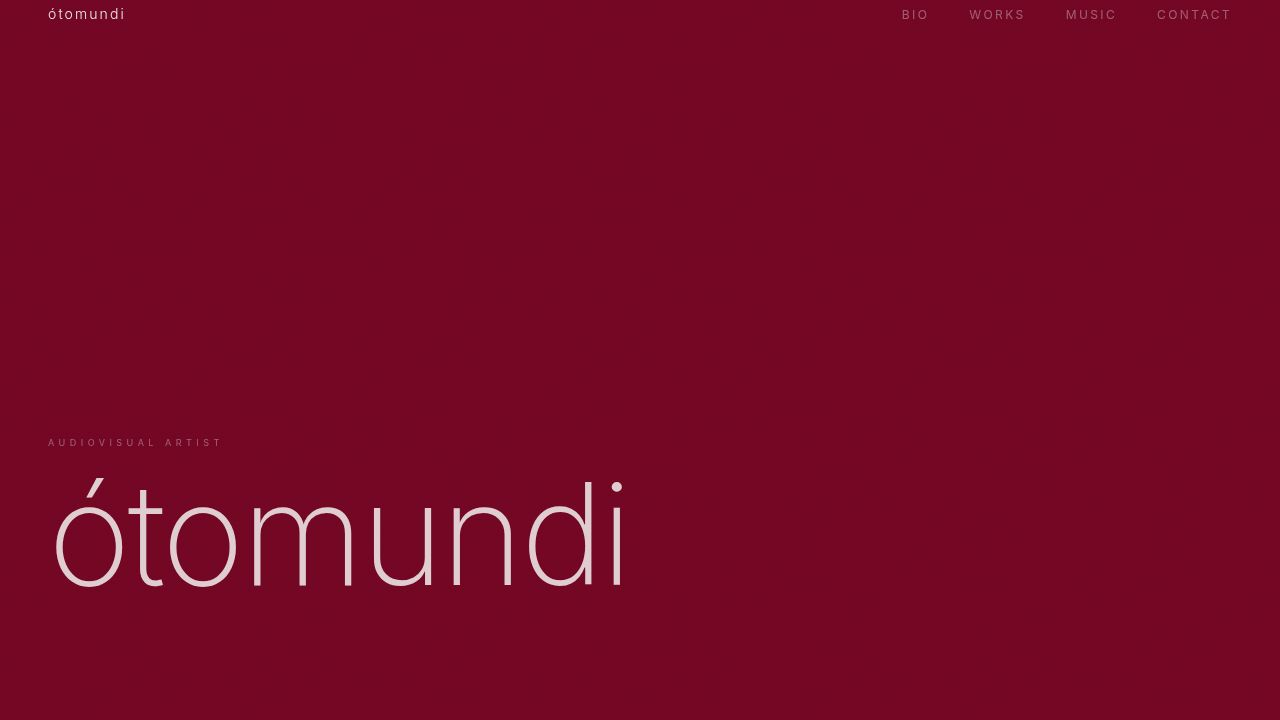
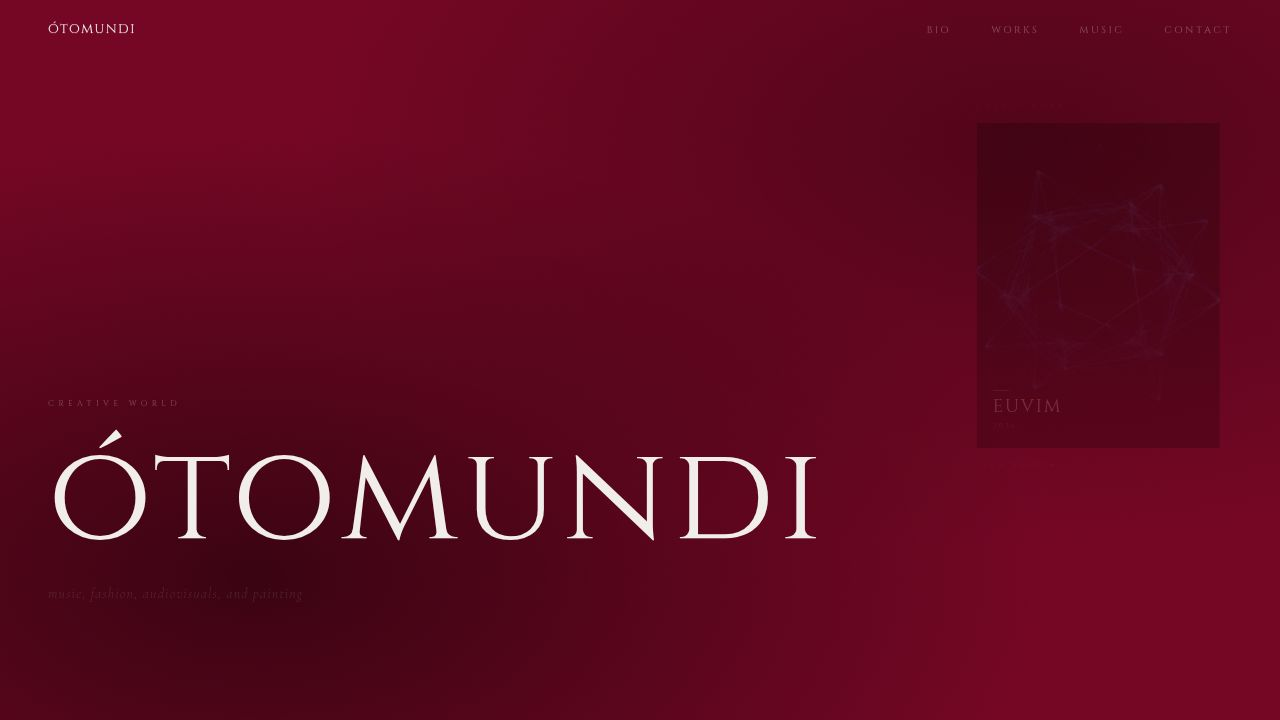
Add a call to action for the latest artwork and a pulsing animation
Add a "Latest Work" call to action to the landing page and a pulsing red vignette effect to work detail images.

Replit-Commit-Author: Agent
Replit-Commit-Session-Id: 4dd4f885-91ed-40de-b253-7b7fb1446668
Replit-Commit-Checkpoint-Type: full_checkpoint
Replit-Commit-Event-Id: 82ff4712-28cc-4bcb-9798-424f6fc0920f
Replit-Commit-Screenshot-Url: https://storage.googleapis.com/screenshot-production-us-central1/a4cadb7b-c77c-4009-9e41-e14e15110c0b/4dd4f885-91ed-40de-b253-7b7fb1446668/TG7sOk2
Replit-Helium-Checkpoint-Created: true

diff --git a/artifacts/portfolio/src/pages/Landing.tsx b/artifacts/portfolio/src/pages/Landing.tsx
@@ -1,7 +1,10 @@
 import { motion } from "framer-motion";
+import { Link } from "wouter";
 import { SiInstagram, SiYoutube, SiSoundcloud, SiSpotify } from "react-icons/si";
+import { works } from "@/data/works";
 
 const GOTHIC = "'Cinzel', Georgia, serif";
+const CORMORANT = "'Cormorant Garamond', Georgia, serif";
 
 const socialLinks = [
   { icon: SiInstagram, href: "https://instagram.com/otomundi", label: "Instagram" },
@@ -9,6 +12,8 @@ const socialLinks = [
   { icon: SiSoundcloud, href: "https://soundcloud.com/otomundi", label: "SoundCloud" },
   { icon: SiSpotify, href: "https://open.spotify.com/artist/1Pr9r0RYuRgh971UdzxSpe", label: "Spotify" },
 ];
+
+const latestWork = works[0];
 
 export default function Landing() {
   return (
@@ -23,9 +28,105 @@ export default function Landing() {
         className="absolute inset-0 pointer-events-none"
         style={{
           background:
-            "radial-gradient(ellipse at 20% 80%, rgba(0,0,0,0.45) 0%, transparent 55%), radial-gradient(ellipse at 80% 20%, rgba(0,0,0,0.25) 0%, transparent 50%)",
+            "radial-gradient(ellipse at 20% 80%, rgba(0,0,0,0.50) 0%, transparent 55%), radial-gradient(ellipse at 80% 20%, rgba(0,0,0,0.30) 0%, transparent 50%)",
         }}
       />
+
+      {/* Latest work — floating right panel, desktop only */}
+      <motion.div
+        className="absolute hidden md:block"
+        style={{ right: "6%", top: "14%", width: "clamp(180px, 19vw, 300px)", zIndex: 20 }}
+        initial={{ opacity: 0, x: 16 }}
+        animate={{ opacity: 1, x: 0 }}
+        transition={{ delay: 0.5, duration: 1.1, ease: "easeOut" }}
+        data-testid="latest-work-cta-desktop"
+      >
+        <Link href={`/works/${latestWork.id}`}>
+          <div className="group cursor-crosshair">
+            <p
+              className="mb-3"
+              style={{
+                fontFamily: GOTHIC,
+                fontSize: "7px",
+                letterSpacing: "0.55em",
+                textTransform: "uppercase",
+                color: "rgba(245,244,242,0.22)",
+                fontWeight: 400,
+              }}
+            >
+              Latest Work
+            </p>
+
+            <div className="relative overflow-hidden" style={{ aspectRatio: "3/4" }}>
+              <img
+                src={latestWork.image}
+                alt={latestWork.title}
+                className="w-full h-full object-cover transition-transform duration-700 group-hover:scale-105"
+                style={{ filter: "brightness(0.50) contrast(1.15) saturate(0.60)" }}
+                data-testid="img-latest-work"
+              />
+              <div
+                className="absolute inset-0"
+                style={{
+                  background:
+                    "linear-gradient(to top, rgba(10,2,4,0.85) 0%, transparent 50%), linear-gradient(to bottom, rgba(10,2,4,0.3) 0%, transparent 30%)",
+                }}
+              />
+              {/* Red bleed on hover */}
+              <div
+                className="absolute inset-0 opacity-0 group-hover:opacity-100 transition-opacity duration-500"
+                style={{ background: "rgba(115,6,35,0.22)" }}
+              />
+              <div className="absolute bottom-0 left-0 right-0 p-4">
+                <div
+                  className="mb-2 transition-all duration-500 group-hover:w-8"
+                  style={{ width: "16px", height: "1px", background: "rgba(245,244,242,0.30)" }}
+                />
+                <p
+                  style={{
+                    fontFamily: GOTHIC,
+                    fontSize: "clamp(0.9rem, 1.4vw, 1.3rem)",
+                    letterSpacing: "0.1em",
+                    textTransform: "uppercase",
+                    color: "rgba(245,244,242,0.82)",
+                    fontWeight: 400,
+                    lineHeight: 1,
+                  }}
+                >
+                  {latestWork.title}
+                </p>
+                <p
+                  className="mt-1"
+                  style={{
+                    fontFamily: GOTHIC,
+                    fontSize: "7px",
+                    letterSpacing: "0.3em",
+                    textTransform: "uppercase",
+                    color: "rgba(245,244,242,0.32)",
+                    fontWeight: 400,
+                  }}
+                >
+                  {latestWork.year}
+                </p>
+              </div>
+            </div>
+
+            <p
+              className="mt-3"
+              style={{
+                fontFamily: GOTHIC,
+                fontSize: "7px",
+                letterSpacing: "0.4em",
+                textTransform: "uppercase",
+                color: "rgba(245,244,242,0.20)",
+                fontWeight: 400,
+              }}
+            >
+              View work →
+            </p>
+          </div>
+        </Link>
+      </motion.div>
 
       <div className="relative z-10 flex flex-col flex-1" style={{ minHeight: "100svh" }}>
         <div className="flex-1 flex flex-col items-start justify-end px-6 md:px-12 pb-10 md:pb-14">
@@ -66,7 +167,7 @@ export default function Landing() {
             <motion.p
               className="mt-6 italic"
               style={{
-                fontFamily: "'Cormorant Garamond', Georgia, serif",
+                fontFamily: CORMORANT,
                 fontSize: "clamp(0.78rem, 1.1vw, 1rem)",
                 letterSpacing: "0.08em",
                 color: "rgba(245,244,242,0.30)",
@@ -78,6 +179,76 @@ export default function Landing() {
             >
               music, fashion, audiovisuals, and painting
             </motion.p>
+
+            {/* Latest work — mobile inline block */}
+            <motion.div
+              className="block md:hidden mt-10"
+              initial={{ opacity: 0 }}
+              animate={{ opacity: 1 }}
+              transition={{ delay: 1, duration: 1 }}
+              data-testid="latest-work-cta-mobile"
+            >
+              <Link href={`/works/${latestWork.id}`}>
+                <div className="group cursor-crosshair flex items-center gap-5">
+                  <div
+                    className="relative overflow-hidden flex-shrink-0"
+                    style={{ width: "72px", height: "96px" }}
+                  >
+                    <img
+                      src={latestWork.image}
+                      alt={latestWork.title}
+                      className="w-full h-full object-cover transition-transform duration-600 group-hover:scale-105"
+                      style={{ filter: "brightness(0.50) contrast(1.1) saturate(0.55)" }}
+                    />
+                    <div
+                      className="absolute inset-0"
+                      style={{ background: "linear-gradient(to top, rgba(10,2,4,0.75) 0%, transparent 55%)" }}
+                    />
+                  </div>
+                  <div>
+                    <p
+                      style={{
+                        fontFamily: GOTHIC,
+                        fontSize: "7px",
+                        letterSpacing: "0.5em",
+                        textTransform: "uppercase",
+                        color: "rgba(245,244,242,0.22)",
+                        fontWeight: 400,
+                        marginBottom: "0.4rem",
+                      }}
+                    >
+                      Latest Work
+                    </p>
+                    <p
+                      style={{
+                        fontFamily: GOTHIC,
+                        fontSize: "1.05rem",
+                        letterSpacing: "0.1em",
+                        textTransform: "uppercase",
+                        color: "rgba(245,244,242,0.78)",
+                        fontWeight: 400,
+                        lineHeight: 1,
+                      }}
+                    >
+                      {latestWork.title}
+                    </p>
+                    <p
+                      className="mt-1"
+                      style={{
+                        fontFamily: GOTHIC,
+                        fontSize: "7px",
+                        letterSpacing: "0.35em",
+                        textTransform: "uppercase",
+                        color: "rgba(245,244,242,0.28)",
+                        fontWeight: 400,
+                      }}
+                    >
+                      {latestWork.year} →
+                    </p>
+                  </div>
+                </div>
+              </Link>
+            </motion.div>
           </motion.div>
         </div>
 
@@ -86,7 +257,7 @@ export default function Landing() {
           style={{ borderTop: "1px solid rgba(245,244,242,0.08)" }}
           initial={{ opacity: 0 }}
           animate={{ opacity: 1 }}
-          transition={{ delay: 1, duration: 0.9 }}
+          transition={{ delay: 1.1, duration: 0.9 }}
         >
           <div className="flex items-center gap-7">
             {socialLinks.map(({ icon: Icon, href, label }) => (

diff --git a/artifacts/portfolio/src/pages/WorkDetail.tsx b/artifacts/portfolio/src/pages/WorkDetail.tsx
@@ -395,13 +395,13 @@ export default function WorkDetail() {
           style={{ height: "55vh", minHeight: 320 }}
           initial={{ opacity: 0 }}
           animate={{ opacity: 1 }}
-          transition={{ duration: 1 }}
+          transition={{ duration: 1.2 }}
         >
           <img
             src={work.image}
             alt={work.title}
             className="w-full h-full object-cover"
-            style={{ filter: "brightness(0.45) contrast(1.1)" }}
+            style={{ filter: "brightness(0.42) contrast(1.12) saturate(0.7)" }}
             data-testid="img-work-detail"
           />
           <div
@@ -411,11 +411,21 @@ export default function WorkDetail() {
                 "linear-gradient(to right, #111111 0%, transparent 35%, transparent 65%, #111111 100%), linear-gradient(to top, #111111 0%, transparent 50%)",
             }}
           />
-          <div
-            className="absolute inset-0 opacity-20"
-            style={{
-              background: "radial-gradient(ellipse at 60% 50%, rgba(115,6,35,0.5), transparent 55%)",
+          {/* Slow crimson pulse — like a wound breathing */}
+          <motion.div
+            className="absolute inset-0"
+            animate={{ opacity: [0.12, 0.42, 0.12] }}
+            transition={{
+              duration: 5,
+              repeat: Infinity,
+              ease: "easeInOut",
+              repeatType: "mirror",
             }}
+            style={{
+              background:
+                "radial-gradient(ellipse at 55% 50%, rgba(115,6,35,0.90) 0%, rgba(80,2,20,0.40) 45%, transparent 70%)",
+            }}
+            data-testid="vignette-pulse"
           />
         </motion.div>
 
